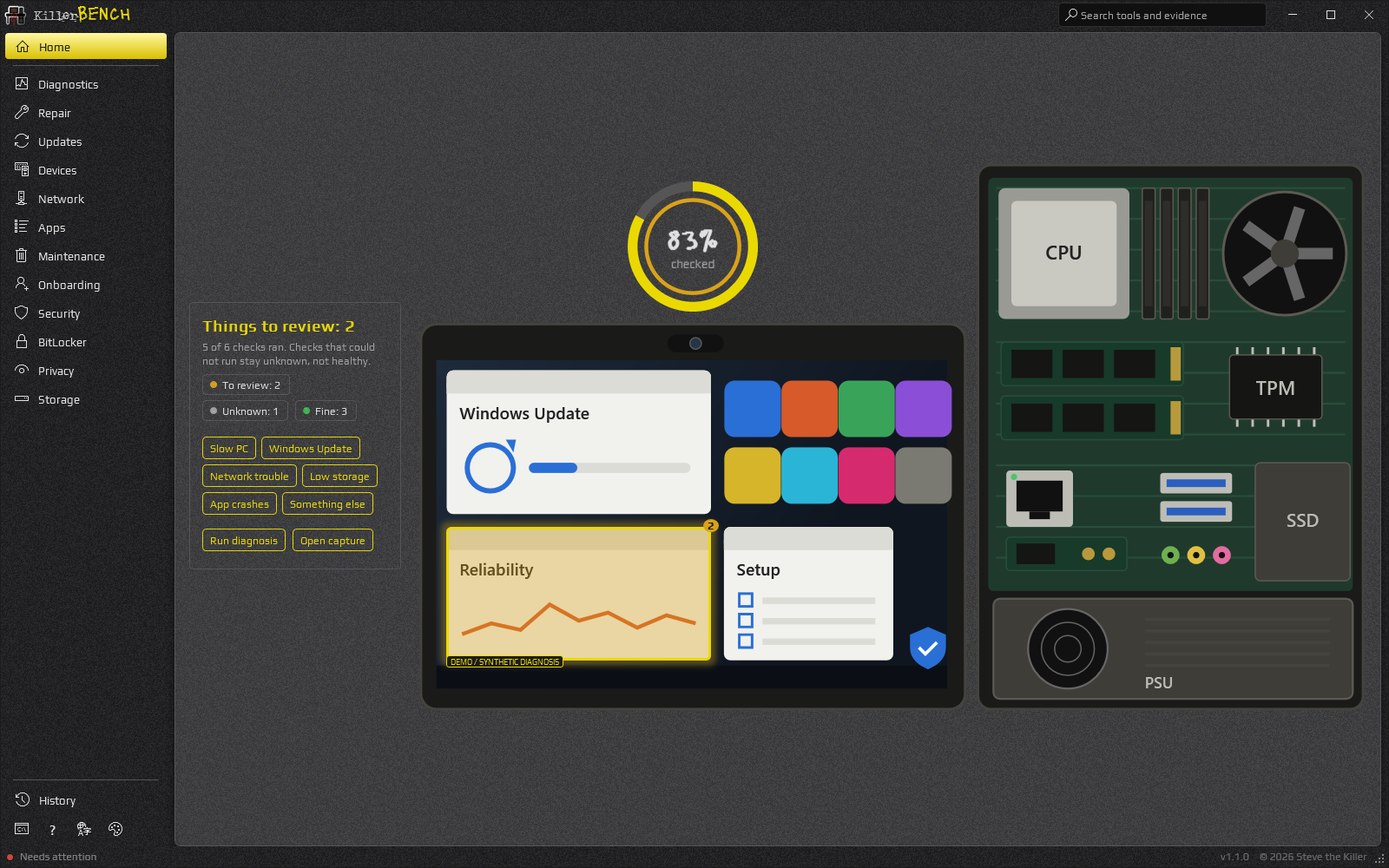
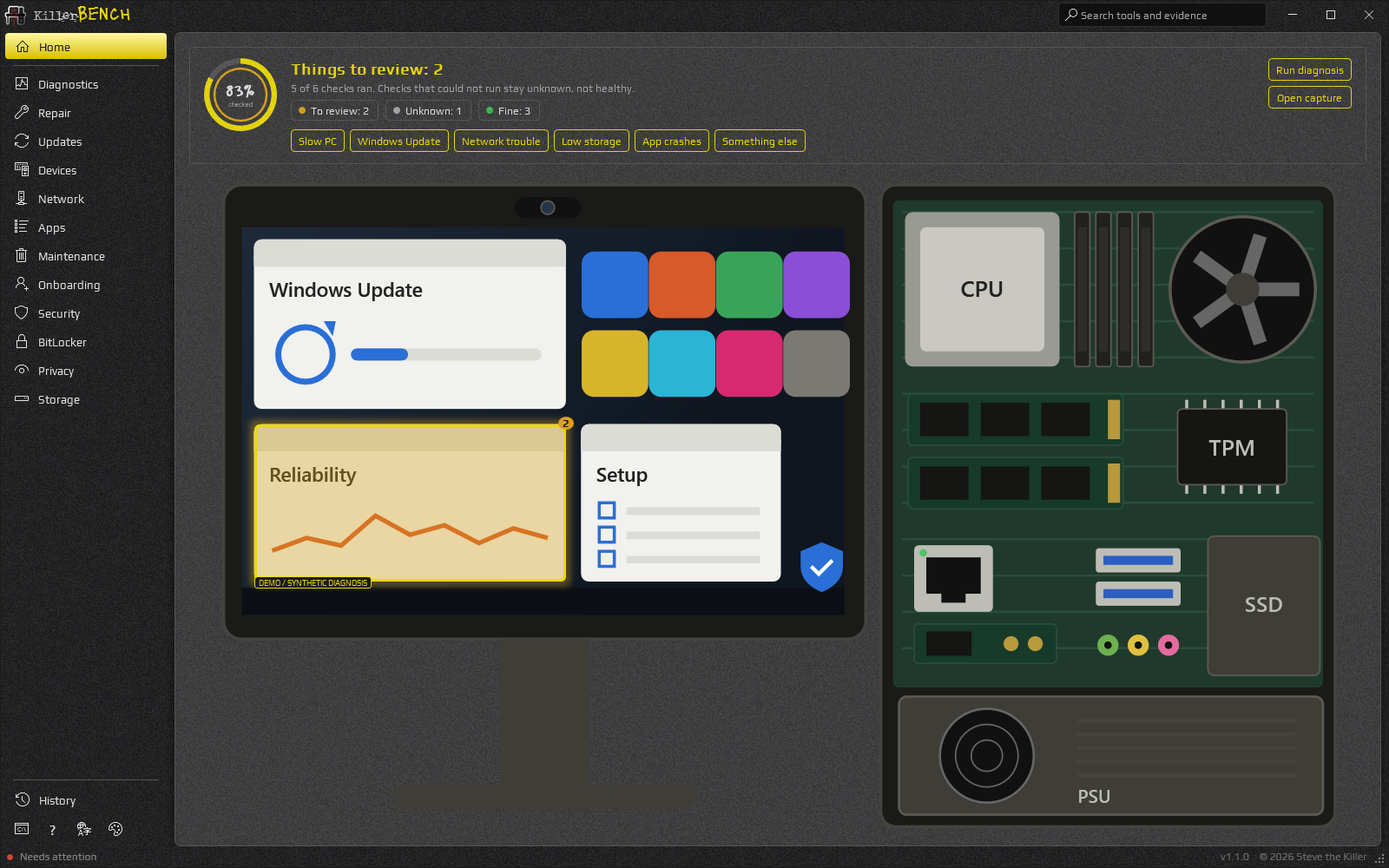
v1.1.0: Rebuild Home as one summary band over a full-size system map

diff --git a/Shell/MainWindow.xaml b/Shell/MainWindow.xaml
@@ -189,45 +189,40 @@
         <Border x:Name="OverviewPage" Grid.Column="2" Style="{StaticResource Panel}" Background="{DynamicResource ContentPaneBrush}" icons:ThemeMotif.Part="Window" icons:ThemeMotif.BaseBrush="ContentPaneBrush">
           <Grid><Border IsHitTestVisible="False" CornerRadius="{DynamicResource PanelCornerRadius}" Background="{DynamicResource GrainTileBrush}" Opacity="{DynamicResource GrainOpacity}"/><Border>
           <ScrollViewer x:Name="OverviewScroll" Style="{StaticResource ShadowScrollViewer}" Padding="16" VerticalScrollBarVisibility="Auto" HorizontalScrollBarVisibility="Disabled">
-            <!-- One pane: the score column sits beside the map, so the map uses the width instead of the height. -->
+            <!-- Home: one summary band across the top (gauge, status, symptoms, actions), the machine fills the rest. -->
             <Grid x:Name="OverviewLayout">
-              <Grid.ColumnDefinitions><ColumnDefinition Width="260"/><ColumnDefinition Width="*"/></Grid.ColumnDefinitions>
               <Grid.RowDefinitions><RowDefinition Height="Auto"/><RowDefinition Height="Auto"/></Grid.RowDefinitions>
-              <!-- The score card wraps its content and sits centered against the machine, so no empty box runs the pane height. -->
-              <Grid x:Name="OverviewSide" Margin="0,0,16,0">
-              <Border x:Name="OverviewHero" VerticalAlignment="Center" Background="{DynamicResource PaneBrush}" BorderBrush="{DynamicResource PaneBorderBrush}" BorderThickness="1" CornerRadius="{DynamicResource ControlCornerRadius}" Padding="14">
-                <Grid><DockPanel VerticalAlignment="Top">
-                  <StackPanel VerticalAlignment="Center">
+              <Border x:Name="OverviewHero" Margin="0,0,0,16" Background="{DynamicResource PaneBrush}" BorderBrush="{DynamicResource PaneBorderBrush}" BorderThickness="1" CornerRadius="{DynamicResource ControlCornerRadius}" Padding="16,12">
+                <Grid><Grid>
+                  <Grid.ColumnDefinitions><ColumnDefinition Width="Auto"/><ColumnDefinition Width="*"/><ColumnDefinition Width="Auto"/></Grid.ColumnDefinitions>
+                  <Viewbox x:Name="OverviewGaugeSpot" Width="84" Height="84" VerticalAlignment="Top" Margin="0,0,16,0">
+                    <Grid Width="120" Height="120">
+                      <icons:CoverageGauge x:Name="OverviewGauge" TrackBrush="{DynamicResource PaneBorderBrush}" CoverageBrush="{DynamicResource PrimaryBrush}" ToneBrush="{DynamicResource PaneBorderBrush}" IsHitTestVisible="False"/>
+                      <StackPanel VerticalAlignment="Center" HorizontalAlignment="Center">
+                        <TextBlock x:Name="OverviewPercent" Text="0%" FontFamily="{DynamicResource HeadingFont}" FontSize="26" FontWeight="SemiBold" HorizontalAlignment="Center"/>
+                        <TextBlock Text="{DynamicResource Str_Overview_Checked}" FontSize="11" Foreground="{DynamicResource MutedTextBrush}" HorizontalAlignment="Center"/>
+                      </StackPanel>
+                    </Grid>
+                  </Viewbox>
+                  <StackPanel Grid.Column="1" VerticalAlignment="Center">
                     <TextBlock x:Name="OverviewHeadline" Text="{DynamicResource Str_Workspace_SystemMap}" FontSize="18" FontWeight="SemiBold" Foreground="{DynamicResource PrimaryBrush}" TextWrapping="Wrap"/>
-                    <TextBlock x:Name="OverviewDetail" Text="{DynamicResource Str_Workspace_MapHint}" FontSize="12" Foreground="{DynamicResource MutedTextBrush}" TextWrapping="Wrap" Margin="0,4,0,0"/>
-                    <Border Height="8"/>
-                    <WrapPanel x:Name="OverviewChips" Margin="0,0,0,8" Visibility="Collapsed"/>
+                    <TextBlock x:Name="OverviewDetail" Text="{DynamicResource Str_Workspace_MapHint}" FontSize="12" Foreground="{DynamicResource MutedTextBrush}" TextWrapping="Wrap" Margin="0,2,0,6"/>
+                    <WrapPanel x:Name="OverviewChips" Visibility="Collapsed"/>
                     <!-- Symptoms: each one opens its area and runs the matching check. -->
-                    <ItemsControl x:Name="SymptomChips" Margin="0,4,0,10" AutomationProperties.Name="{DynamicResource Str_Guided_Title}">
+                    <ItemsControl x:Name="SymptomChips" AutomationProperties.Name="{DynamicResource Str_Guided_Title}">
                       <ItemsControl.ItemsPanel><ItemsPanelTemplate><WrapPanel/></ItemsPanelTemplate></ItemsControl.ItemsPanel>
                       <ItemsControl.ItemTemplate><DataTemplate>
-                        <Button Click="OnSymptomChip" Tag="{Binding}" Margin="0,0,6,6" Padding="8,3" AutomationProperties.Name="{Binding Title}" ToolTip="{Binding Description}">
+                        <Button Click="OnSymptomChip" Tag="{Binding}" Margin="0,4,6,0" Padding="8,3" AutomationProperties.Name="{Binding Title}" ToolTip="{Binding Description}">
                           <TextBlock Text="{Binding Title}" FontSize="12"/>
                         </Button>
                       </DataTemplate></ItemsControl.ItemTemplate>
                     </ItemsControl>
-                    <WrapPanel x:Name="OverviewMapActions"><Button x:Name="OverviewCheckButton" Content="{DynamicResource Str_Main_RunDiagnosis}" Click="OnOverviewCheck" Margin="0,0,8,6"/><Button x:Name="OverviewOpenCaptureButton" Content="{DynamicResource Str_OpenCapture}" Click="OnOpenCapture" Margin="0,0,0,6"/></WrapPanel>
                   </StackPanel>
-                </DockPanel>
-                <Border Style="{StaticResource FlyoutGrain}" Margin="-14"/></Grid>
+                  <StackPanel x:Name="OverviewMapActions" Grid.Column="2" VerticalAlignment="Top" Margin="16,0,0,0"><Button x:Name="OverviewCheckButton" Content="{DynamicResource Str_Main_RunDiagnosis}" Click="OnOverviewCheck" Margin="0,0,0,6"/><Button x:Name="OverviewOpenCaptureButton" Content="{DynamicResource Str_OpenCapture}" Click="OnOpenCapture"/></StackPanel>
+                </Grid>
+                <Border Style="{StaticResource FlyoutGrain}" Margin="-16,-12"/></Grid>
               </Border>
-              </Grid>
-              <Grid x:Name="OverviewMapHost" Grid.Column="1" VerticalAlignment="Top">
-              <!-- The gauge sits in the strip the map leaves above the monitor (MachineMapPanel.GaugeRect). -->
-              <Viewbox x:Name="OverviewGaugeSpot" HorizontalAlignment="Left" VerticalAlignment="Top" Width="100" Height="100" Panel.ZIndex="1">
-                  <Grid Width="120" Height="120">
-                    <icons:CoverageGauge x:Name="OverviewGauge" TrackBrush="{DynamicResource PaneBorderBrush}" CoverageBrush="{DynamicResource PrimaryBrush}" ToneBrush="{DynamicResource PaneBorderBrush}" IsHitTestVisible="False"/>
-                    <StackPanel VerticalAlignment="Center" HorizontalAlignment="Center">
-                      <TextBlock x:Name="OverviewPercent" Text="0%" FontFamily="{DynamicResource HeadingFont}" FontSize="26" FontWeight="SemiBold" HorizontalAlignment="Center"/>
-                      <TextBlock Text="{DynamicResource Str_Overview_Checked}" FontSize="11" Foreground="{DynamicResource MutedTextBrush}" HorizontalAlignment="Center"/>
-                    </StackPanel>
-                  </Grid>
-              </Viewbox>
+              <Grid x:Name="OverviewMapHost" Grid.Row="1">
               <ListBox x:Name="SystemAreas" VerticalAlignment="Top" Background="Transparent" BorderThickness="0" SelectionChanged="OnSystemAreaSelected" PreviewMouseLeftButtonUp="OnReopenSelected" ScrollViewer.HorizontalScrollBarVisibility="Disabled" ScrollViewer.VerticalScrollBarVisibility="Disabled" AutomationProperties.Name="{DynamicResource Str_Workspace_SelectArea}">
                 <ListBox.ItemsPanel><ItemsPanelTemplate><icons:MachineMapPanel/></ItemsPanelTemplate></ListBox.ItemsPanel>
                 <ListBox.ItemContainerStyle><Style TargetType="ListBoxItem" BasedOn="{StaticResource SourceItem}">

diff --git a/Shell/WorkspaceNavigation.cs b/Shell/WorkspaceNavigation.cs
@@ -1,4 +1,4 @@
-using System.Windows;
+using System.Windows;
 using System.Windows.Controls;
 
 namespace KillerBench.Shell;
@@ -87,48 +87,13 @@ public partial class MainWindow
     private void FitSystemMap()
     {
         if (!OverviewPage.IsVisible || OverviewScroll.ViewportHeight <= 0) return;
-        // The map sits beside the score card and takes the pane's full height.
-        double height = Math.Max(0, OverviewScroll.ViewportHeight - 8);
-        if (Math.Abs(SystemAreas.MinHeight - height) > 1) SystemAreas.MinHeight = height;
-        PlaceOverviewGauge();
-    }
-
-    // The gauge fills the strip above the monitor. When the map stacks as a plain list, it sits above the list.
-    private void PlaceOverviewGauge()
-    {
-        var machine = FindChild<KillerBench.Controls.MachineMapPanel>(SystemAreas);
-        Rect strip = machine?.GaugeRect ?? Rect.Empty;
-        Thickness margin; double size; Thickness listMargin;
-        if (machine is not null && !strip.IsEmpty && strip.Height > 0)
-        {
-            var origin = machine.TranslatePoint(new Point(strip.X, strip.Y), OverviewMapHost);
-            size = Math.Clamp(strip.Height - 8, 40, 150);
-            margin = new Thickness(origin.X + (strip.Width - size) / 2, origin.Y + strip.Height - size, 0, 0);
-            listMargin = new Thickness(0);
-        }
-        else
-        {
-            size = 100;
-            margin = new Thickness(0);
-            listMargin = new Thickness(0, size + 12, 0, 0);
-        }
-        if (Math.Abs(OverviewGaugeSpot.Width - size) > 0.5) OverviewGaugeSpot.Width = OverviewGaugeSpot.Height = size;
-        if (!AreClose(OverviewGaugeSpot.Margin, margin)) OverviewGaugeSpot.Margin = margin;
-        if (!AreClose(SystemAreas.Margin, listMargin)) SystemAreas.Margin = listMargin;
-    }
-
-    private static bool AreClose(Thickness a, Thickness b) =>
-        Math.Abs(a.Left - b.Left) < 0.5 && Math.Abs(a.Top - b.Top) < 0.5 && Math.Abs(a.Right - b.Right) < 0.5 && Math.Abs(a.Bottom - b.Bottom) < 0.5;
-
-    private static T? FindChild<T>(DependencyObject parent) where T : DependencyObject
-    {
-        for (int i = 0; i < System.Windows.Media.VisualTreeHelper.GetChildrenCount(parent); i++)
-        {
-            var child = System.Windows.Media.VisualTreeHelper.GetChild(parent, i);
-            if (child is T match) return match;
-            if (FindChild<T>(child) is { } found) return found;
-        }
-        return null;
+        // The machine fills whatever the summary band leaves, so the pane has no dead floor.
+        // A fixed height, not a floor: inside the scroll viewer the map would otherwise size itself to the width and run off the bottom.
+        // Below 280px it keeps that floor and the page scrolls rather than shrinking the machine to nothing.
+        double height = Math.Max(280, OverviewScroll.ViewportHeight - OverviewHero.ActualHeight - OverviewHero.Margin.Bottom - 2);
+        // A narrow pane stacks the parts as a list, which needs its natural height.
+        if (OverviewMapHost.ActualWidth < 460) { if (!double.IsNaN(SystemAreas.Height)) SystemAreas.ClearValue(HeightProperty); return; }
+        if (double.IsNaN(SystemAreas.Height) || Math.Abs(SystemAreas.Height - height) > 1) SystemAreas.Height = height;
     }
 
     private void FitInitialOverviewHeight()
@@ -137,8 +102,8 @@ public partial class MainWindow
         double width = Math.Max(220, (Width - 40) / appScale - LeftPanel.Width - 8 - OverviewScroll.Padding.Left - OverviewScroll.Padding.Right);
         // Measure the whole scroll content (hero, map hint and map) so nothing on the page is left out of the sum.
         var page = (FrameworkElement)OverviewScroll.Content;
-        // A MinHeight left over from a larger window would inflate the sum; FitSystemMap sets it again after layout.
-        SystemAreas.ClearValue(MinHeightProperty);
+        // A Height left over from a larger window would inflate the sum; FitSystemMap sets it again after layout.
+        SystemAreas.ClearValue(HeightProperty);
         page.Measure(new Size(width, double.PositiveInfinity));
         CaptionBar.Measure(new Size(Width, double.PositiveInfinity));
         double content = page.DesiredSize.Height + OverviewScroll.Padding.Top + OverviewScroll.Padding.Bottom + 12;

diff --git a/Controls/MachineMapPanel.cs b/Controls/MachineMapPanel.cs
@@ -41,22 +41,16 @@ public sealed class MachineMapPanel : Panel
         ["Repair"] = new(448, 340, 284, 82),
     };
 
-    // The monitor sits flush on the tower's floor line; the strip it frees above it is GaugeRect, where the
-    // Overview puts its score gauge. Monitor parts are drawn in the old coordinates and shifted down by MonitorDrop.
-    private const double MonitorDrop = 124;
     private static readonly Rect Monitor = new(4, 4, 424, 300);
     private static readonly Rect MonitorScreen = new(16, 32, 410, 260);
     private static readonly Rect Tower = new(438, 4, 300, 424);
 
     public Rect ScreenRect { get; private set; } = Rect.Empty;
     public Rect TowerRect { get; private set; } = Rect.Empty;
-    public Rect GaugeRect { get; private set; } = Rect.Empty;
 
     private double scale = 1;
     private Vector offset;
     private bool drawn;
-
-    private static Rect Placed(Rect design) => design.X < Tower.X ? Rect.Offset(design, 0, MonitorDrop) : design;
 
     private Rect ToView(Rect design) => new(offset.X + design.X * scale, offset.Y + design.Y * scale, design.Width * scale, design.Height * scale);
 
@@ -82,20 +76,16 @@ public sealed class MachineMapPanel : Panel
         {
             double y = 0;
             foreach (UIElement child in InternalChildren) { child.Arrange(new Rect(0, y, finalSize.Width, child.DesiredSize.Height)); y += child.DesiredSize.Height; }
-            ScreenRect = TowerRect = GaugeRect = Rect.Empty;
+            ScreenRect = TowerRect = Rect.Empty;
             InvalidateVisual();
             return finalSize;
         }
         scale = Math.Min(finalSize.Width / DesignWidth, finalSize.Height / DesignHeight);
-        // Centered both ways, so a width-bound map leaves no dead floor under the machine.
         offset = new Vector((finalSize.Width - DesignWidth * scale) / 2, Math.Max(0, (finalSize.Height - DesignHeight * scale) / 2));
-        ScreenRect = ToView(Placed(MonitorScreen));
-        // Everything above the monitor, from the panel's top edge down to just over the webcam.
-        var monitorView = ToView(Placed(Monitor));
-        GaugeRect = new Rect(monitorView.X, 0, monitorView.Width, Math.Max(0, ToView(Placed(Parts["Privacy"])).Y - 6 * scale));
+        ScreenRect = ToView(MonitorScreen);
         TowerRect = ToView(Tower);
         foreach (UIElement child in InternalChildren)
-            child.Arrange(Parts.TryGetValue(GetPart(child), out var part) ? ToView(Placed(part)) : new Rect(-9999, -9999, 0, 0));
+            child.Arrange(Parts.TryGetValue(GetPart(child), out var part) ? ToView(part) : new Rect(-9999, -9999, 0, 0));
         InvalidateVisual();
         return finalSize;
     }
@@ -125,9 +115,7 @@ public sealed class MachineMapPanel : Panel
         if (!drawn || ActualWidth <= 0) return;
         dc.PushTransform(new TranslateTransform(offset.X, offset.Y));
         dc.PushTransform(new ScaleTransform(scale, scale));
-        dc.PushTransform(new TranslateTransform(0, MonitorDrop));
         DrawMonitor(dc);
-        dc.Pop();
         DrawTower(dc);
         dc.Pop();
         dc.Pop();
@@ -146,6 +134,8 @@ public sealed class MachineMapPanel : Panel
         dc.DrawRoundedRectangle(Case, Line(Edge, 2), Monitor, 12, 12);
         dc.DrawRectangle(ScreenFill, null, new Rect(MonitorScreen.X, MonitorScreen.Y, MonitorScreen.Width - 12, MonitorScreen.Height - 4));
         dc.DrawRectangle(Taskbar, null, new Rect(MonitorScreen.X, 270, MonitorScreen.Width - 12, 18));
+        dc.DrawRectangle(Metal, null, new Rect(186, 304, 60, 96));
+        dc.DrawRoundedRectangle(Metal, null, new Rect(116, 400, 200, 16), 6, 6);
 
         // Privacy: the webcam on the top bezel.
         var cam = Parts["Privacy"];

diff --git a/Checks/WorkspaceNavigationChecks.cs b/Checks/WorkspaceNavigationChecks.cs
@@ -70,21 +70,21 @@ internal static class WorkspaceNavigationChecks
             window.Height = 1000;
             Settle(window);
             var mapPane = Find<FrameworkElement>(window, "OverviewPage");
-            // One toolbar only: the symptoms live inside the score card, the gauge sits in the free strip above the
-            // monitor, and the card wraps its content, centered against the machine instead of running the pane height.
+            // Home is one summary band (gauge, status, symptoms, actions) over a machine that fills the rest of the pane.
             var chips = Find<FrameworkElement>(window, "SymptomChips");
             var hero = Find<FrameworkElement>(window, "OverviewHero");
             var gauge = Find<FrameworkElement>(window, "OverviewGaugeSpot");
-            var drawn = FindVisual<KillerBench.Controls.MachineMapPanel>(map);
-            Require(chips.IsDescendantOf(hero), "The symptom buttons sit inside the score card, not in a bar of their own.");
-            Rect gaugeBox = gauge.TransformToVisual(drawn!).TransformBounds(new Rect(gauge.RenderSize));
-            Rect screen = drawn!.ScreenRect;
-            Require(gauge.ActualWidth >= 60 && gaugeBox.Bottom <= screen.Top && gaugeBox.Left >= screen.Left - 20 && gaugeBox.Right <= screen.Right + 20,
-                "The gauge fills the strip above the monitor. Gauge " + gaugeBox + ", screen " + screen);
-            double heroMiddle = hero.TranslatePoint(new Point(0, hero.ActualHeight / 2), mapPane).Y;
-            double mapMiddle = map.TranslatePoint(new Point(0, map.ActualHeight / 2), mapPane).Y;
-            Require(Math.Abs(heroMiddle - mapMiddle) <= 2 && hero.ActualHeight < map.ActualHeight - 40,
-                "The score card wraps its content and sits centered on the machine. Card middle " + heroMiddle + ", map middle " + mapMiddle);
+            var drawn = FindVisual<KillerBench.Controls.MachineMapPanel>(map)!;
+            Require(chips.IsDescendantOf(hero) && gauge.IsDescendantOf(hero), "The gauge and the symptom buttons sit in the summary band, not in bars of their own.");
+            var scroll = Find<ScrollViewer>(window, "OverviewScroll");
+            double heroBottom = hero.TranslatePoint(new Point(0, hero.ActualHeight), scroll).Y;
+            double mapTop = map.TranslatePoint(new Point(0, 0), scroll).Y;
+            double mapBottom = map.TranslatePoint(new Point(0, map.ActualHeight), scroll).Y;
+            Require(mapTop >= heroBottom && mapTop - heroBottom <= 20 && scroll.ScrollableHeight < 1 && scroll.ActualHeight - mapBottom <= 24,
+                "The machine starts right under the band and runs to the bottom of the pane. Band " + heroBottom + ", map " + mapTop + " to " + mapBottom + " of " + scroll.ActualHeight);
+            double machineWidth = drawn.TowerRect.Right - drawn.ScreenRect.Left, machineHeight = drawn.TowerRect.Height;
+            Require(Math.Min(map.ActualWidth - machineWidth, map.ActualHeight - machineHeight) <= 40,
+                "The machine is as big as the pane allows. Machine " + machineWidth + "x" + machineHeight + " in " + map.RenderSize);
             Require(Find<TextBlock>(window, "OverviewDetail") is { IsVisible: true } detailLine && detailLine.Text.Length > 1,
                 "Before any check, the score card carries the map instruction instead of an empty line.");
             window.Width = 1025;

diff --git a/CHANGELOG.md b/CHANGELOG.md
@@ -33,8 +33,8 @@
 
 ### Changed
 
-- Reorganized the workbench around an illustrated system map, six symptom entry points and resizable evidence with coverage charts and finding cards. One sidebar on the left lists Home, every area and History, with the console, help, language and theme buttons pinned at its foot, and it drops to icons only below 900 effective pixels or when "No text" is chosen from its right-click menu. Search stays in the title bar, and the map fills the taller default window when screen space permits. Home puts six symptom chips under the score and the map, and each one opens its area and runs the matching check. Each area page lists its checks as rows under a header that holds the area name and the Run and Stop buttons, and the selected row opens in place with that check's options and repair consent. History uses the same header and row style, with the open-workflow and open-capture buttons in its header. Selecting a History row opens it in place with the outcome and each check's state, and its Full report and Raw output buttons swap in the complete views. The separate Investigate page is gone, since the Home symptom chips do the same job in one step, so Ctrl+1, Ctrl+2 and Ctrl+3 now open Home, the current area and History. Reports open under a single header row that holds Back, the title, the Readable report and Raw output toggle and Export, and the toggle moves under the title only when the pane is narrow. An area summary uses the same page header as the area page, lists its checks as slim rows, and marks its area in the sidebar. Home keeps its symptom buttons inside the score card, and the coverage gauge sits above the monitor on the system map.
-- The Overview opens on a coverage gauge that shows how much of the machine was actually checked, with the worst finding's color on its inner ring and counts for fixable, to-review, unknown and fine checks. The areas are drawn as a monitor and an open tower, where each area is the real part it covers: Storage is the drives, Network the Ethernet port and Wi-Fi card, BitLocker the TPM chip, Repair the power supply, and the software areas are windows and icons on the screen. Each part glows in its finding's color with a matching badge, demo results stay labeled on the part, and narrow windows fall back to a plain list. Checks that could not run lower the coverage and are never counted as healthy, and the area summary now uses the same numbers instead of counting an unknown check as a review item too. The area summary also draws those numbers as one colored bar split into fixable, to-review, unknown and fine checks, with a legend. Volumes whose capacity was measured get a used-space bar per drive, colored by that check's finding. Checks now record measured values as typed metrics in the result and its journal, so charts never read numbers back out of report text. The window opens at the height the Overview needs instead of a fixed 780 pixels, so no blank band sits under the map. The readable report opens with the same state bar and drive bars as the Overview instead of four count boxes, each finding card carries its state as a colored stripe, and cards show a next line only when it says something specific to that finding. Investigate shows its three steps as markers in the header and draws each symptom with its area's art, and Tools heads each category with its area's art. The workspace is now one pane: the Overview puts a score card the map's full height beside the map, carrying the map's instruction until the first check, and choosing an area, a symptom or a History result, or running a tool, swaps its details in over the page, with a Back button that swaps the page back. The session activity strip spans the whole pane, and a language change keeps the open area's details in place. History gets the same illustrated header and lists the session's results on a timeline. Search results show their area's art beside each title.
+- Reorganized the workbench around an illustrated system map, six symptom entry points and resizable evidence with coverage charts and finding cards. One sidebar on the left lists Home, every area and History, with the console, help, language and theme buttons pinned at its foot, and it drops to icons only below 900 effective pixels or when "No text" is chosen from its right-click menu. Search stays in the title bar, and the map fills the taller default window when screen space permits. Home carries six symptom buttons in its summary band, and each one opens its area and runs the matching check. Each area page lists its checks as rows under a header that holds the area name and the Run and Stop buttons, and the selected row opens in place with that check's options and repair consent. History uses the same header and row style, with the open-workflow and open-capture buttons in its header. Selecting a History row opens it in place with the outcome and each check's state, and its Full report and Raw output buttons swap in the complete views. The separate Investigate page is gone, since the Home symptom chips do the same job in one step, so Ctrl+1, Ctrl+2 and Ctrl+3 now open Home, the current area and History. Reports open under a single header row that holds Back, the title, the Readable report and Raw output toggle and Export, and the toggle moves under the title only when the pane is narrow. An area summary uses the same page header as the area page, lists its checks as slim rows, and marks its area in the sidebar.
+- The Overview opens on a coverage gauge that shows how much of the machine was actually checked, with the worst finding's color on its inner ring and counts for fixable, to-review, unknown and fine checks. The areas are drawn as a monitor and an open tower, where each area is the real part it covers: Storage is the drives, Network the Ethernet port and Wi-Fi card, BitLocker the TPM chip, Repair the power supply, and the software areas are windows and icons on the screen. Each part glows in its finding's color with a matching badge, demo results stay labeled on the part, and narrow windows fall back to a plain list. Checks that could not run lower the coverage and are never counted as healthy, and the area summary now uses the same numbers instead of counting an unknown check as a review item too. The area summary also draws those numbers as one colored bar split into fixable, to-review, unknown and fine checks, with a legend. Volumes whose capacity was measured get a used-space bar per drive, colored by that check's finding. Checks now record measured values as typed metrics in the result and its journal, so charts never read numbers back out of report text. The window opens at the height the Overview needs instead of a fixed 780 pixels, so no blank band sits under the map. The readable report opens with the same state bar and drive bars as the Overview instead of four count boxes, each finding card carries its state as a colored stripe, and cards show a next line only when it says something specific to that finding. Investigate shows its three steps as markers in the header and draws each symptom with its area's art, and Tools heads each category with its area's art. The workspace is now one pane: Home opens with one summary band across the top, carrying the coverage gauge, the map's instruction until the first check, the symptom buttons and the run and capture actions, with the system map filling the rest of the pane, and choosing an area, a symptom or a History result, or running a tool, swaps its details in over the page, with a Back button that swaps the page back. The session activity strip spans the whole pane, and a language change keeps the open area's details in place. History gets the same illustrated header and lists the session's results on a timeline. Search results show their area's art beside each title.
 - Added grouped tool and evidence search plus workspace, capture and export shortcuts, with matching tooltips, menus, keyboard maps and translated Help tables. Text fields and dialogs use the family context menu with mouse and keyboard access.
 - Updated the WinGet submission tool to Komac 2.17.2.
 - Demo runs and screenshots use realistic workstation findings and normal report labels.
